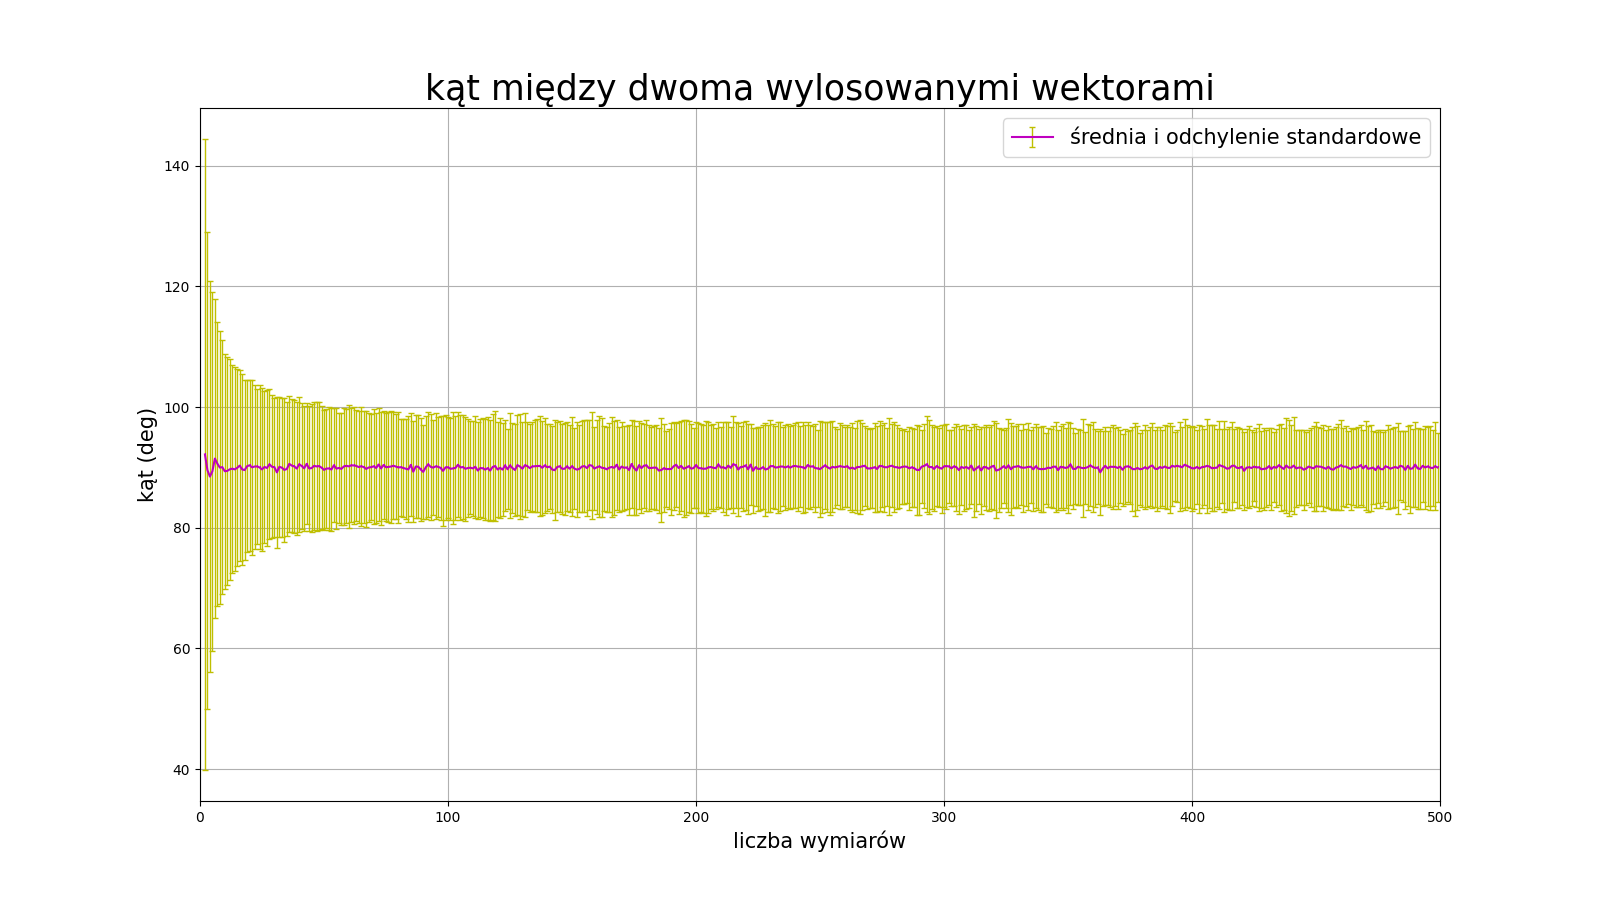
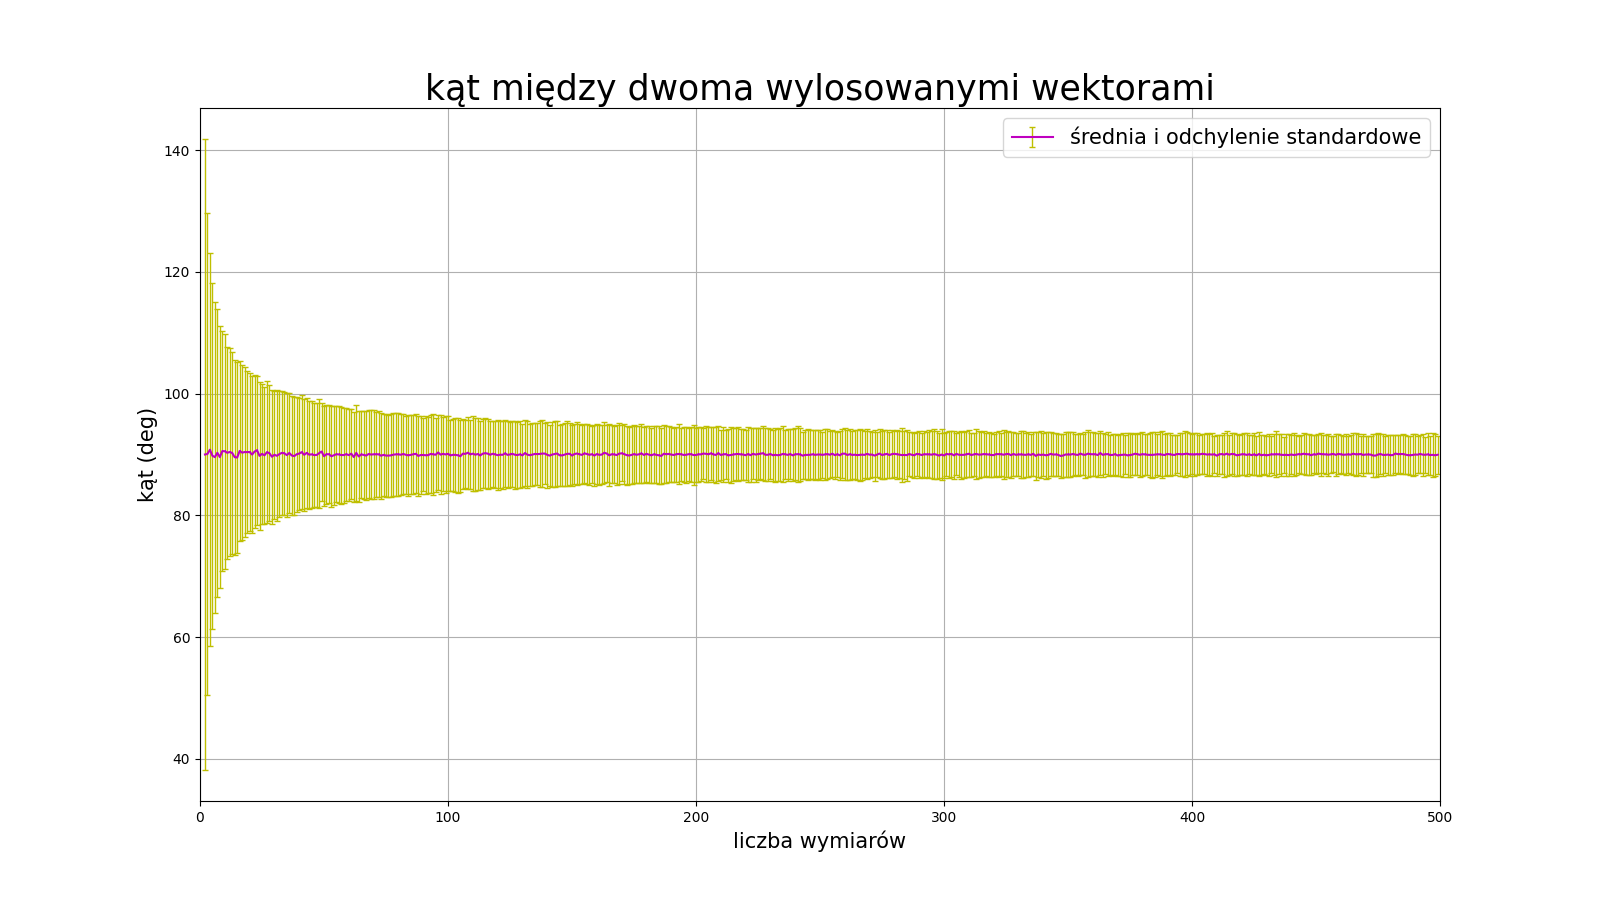
numpy version

diff --git a/lab1/main.py b/lab1/main.py
@@ -1,23 +1,21 @@
 import random
-
 from models import *
 from viewer import *
 
 
 # elements average
-def avg(elements):
-    return sum(elements) / len(elements)
+def avg(elements: list):
+    return np.average(elements)
 
 
 # standard deviation
-def std(elements):
-    avg_val = avg(elements)
-    return math.sqrt(sum([(x - avg_val)**2 for x in elements]) / len(elements))
+def std(elements: list):
+    return np.std(elements)
 
 
 # returns random point (vector)
 def point(n):
-    return [random.random() for _ in range(n)]  # n = number of dimensions (point vector size)
+    return np.random.random(n)
 
 
 # get one point from points list
@@ -25,22 +23,19 @@ def get_point():
     return points[random.randint(0, len(points) - 1)]
 
 
-# get pair of points from points list
+# get a pair of points from points list
 def get_pair():
     point1 = get_point()
     point2 = get_point()
-    while point1 == point2:
+    while np.array_equal(point1, point2):
         point2 = get_point()
     return point1, point2
 
 
-# appends points to list of points
+# Append points to list of points
 def draw_points(n):
     for p in range(no_points):
-        x = point(n)
-        while x in points:
-            x = point(n)
-        points.append(x)
+        points.append(point(n))
 
 
 # appends angle between two vectors in degrees to list
@@ -74,13 +69,12 @@ def calculate_distance_to_avg():
     distances.append(abs(dist1 - dist2) / avg([dist1, dist2]) * 100)
 
 
-def run_test_angle(max_dim=500, no_tests=1000):
+def run_test_angle(max_dim=500, no_tests=2000):
     angles_avg = []
     angles_std = []
     for d in range(2, max_dim):
-        # first of all we have to draw points
+        # first we have to draw points
         draw_points(d)
-
         for _ in range(no_tests):
             calculate_angle()
         angles_avg.append(avg(angles))
@@ -92,11 +86,11 @@ def run_test_angle(max_dim=500, no_tests=1000):
     plot_angles([x for x in range(2, max_dim)], angles_avg, angles_std, max_dim)
 
 
-def run_test_ratio(max_dim=500, no_tests=100):
+def run_test_ratio(max_dim=300, no_tests=100):
     ratios_avg = []
     ratios_std = []
     for d in range(2, max_dim):
-        # first of all we have to draw points
+        # first we have to draw points
         draw_points(d)
 
         for _ in range(no_tests):
@@ -110,11 +104,11 @@ def run_test_ratio(max_dim=500, no_tests=100):
     plot_ratios([x for x in range(2, max_dim)], ratios_avg, ratios_std, max_dim)
 
 
-def run_test_dist(max_dim=500, no_tests=1000):
+def run_test_dist(max_dim=500, no_tests=2000):
     dist_avg = []
     dist_std = []
     for d in range(2, max_dim):
-        # first of all we have to draw points
+        # first we have to draw points
         draw_points(d)
 
         for _ in range(no_tests):
@@ -135,7 +129,7 @@ def clear_lists():
 
 
 if __name__ == "__main__":
-    no_points = 100
+    no_points = 1000
 
     points = []  # generated points list
     angles = []  # angles between two vectors (len(list) == no_tests)

diff --git a/lab1/models.py b/lab1/models.py
@@ -1,9 +1,9 @@
-import math
+import numpy as np
 
 
 # converts radians to degrees
 def deg(radians):
-    return (radians * 180) / math.pi
+    return (radians * 180) / np.pi
 
 
 class Hypersphere:
@@ -16,35 +16,20 @@ class Hypersphere:
         return Vector(self.central_point, self.second_point).distance()
 
     def point_inside(self, point):
-        if self.central_point == point:
+        if np.array_equal(self.central_point, point):
             return True
         return Vector(self.central_point, point).distance() < self.r
 
 
 class Vector:
     def __init__(self, p1, p2):
-        self.start_point = p1
-        self.end_point = p2
-        self.n = len(self.start_point)  # number of dimensions
-        self.coordinates = self.get_coordinates()
-
-    def get_coordinates(self):
-        coord = []
-        for x in range(self.n):
-            coord.append(self.end_point[x] - self.start_point[x])
-        return coord
+        self.coordinates = p1 - p2
 
     def distance(self):  # Euclidean distance
-        squares_sum = 0
-        for x in range(self.n):
-            squares_sum += self.coordinates[x]**2
-
-        return math.sqrt(squares_sum)
+        return np.linalg.norm(self.coordinates)
 
     def angle(self, other):  # angle between two vectors
-        scalar_product = 0
-        for x in range(self.n):
-            scalar_product += self.coordinates[x] * other.coordinates[x]
-        dist_prod = self.distance() * other.distance()
-
-        return deg(math.acos(round(scalar_product / dist_prod, 3)))
+        inner = np.inner(self.coordinates, other.coordinates)
+        norms = np.linalg.norm(self.coordinates) * np.linalg.norm(other.coordinates)
+        rad = np.arccos(np.clip(inner/norms, -1.0, 1.0))
+        return np.rad2deg(rad)

diff --git a/lab1/viewer.py b/lab1/viewer.py
@@ -10,7 +10,9 @@ def plot_angles(x, avg, err, max_dim=500):
     plot.legend(['średnia i odchylenie standardowe'], loc='upper right', prop={'size': 15})
     plot.xlim((0, max_dim))
     plot.grid()
+    print('Saving PNG...')
     plot.savefig('angle.png')
+    print('angle.png saved')
 
 
 def plot_ratios(x, avg, err, max_dim=500):
@@ -22,7 +24,9 @@ def plot_ratios(x, avg, err, max_dim=500):
     plot.legend(['średnia i odchylenie standardowe'], loc='upper right', prop={'size': 15})
     plot.xlim((0, max_dim))
     plot.grid()
+    print('Saving PNG...')
     plot.savefig('inside.png')
+    print('inside.png saved')
 
 
 def plot_distances(x, avg, err, max_dim=500):
@@ -34,4 +38,6 @@ def plot_distances(x, avg, err, max_dim=500):
     plot.legend(['średnia i odchylenie standardowe'], loc='upper right', prop={'size': 15})
     plot.xlim((0, max_dim))
     plot.grid()
+    print('Saving PNG...')
     plot.savefig('ratio.png')
+    print('ratio.png saved')
